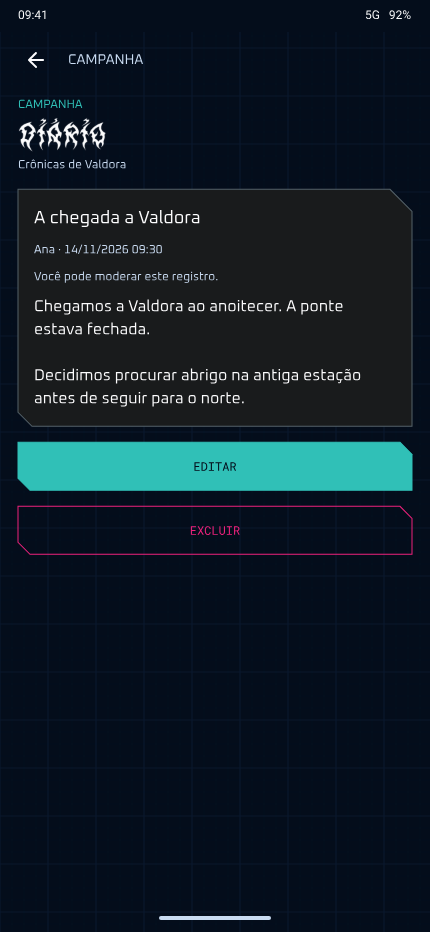
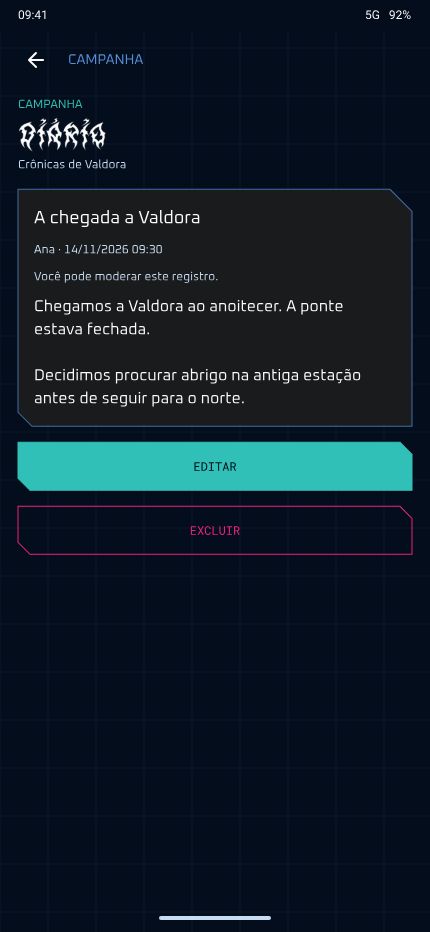
docs: accept journal UI and refine Standard color accents

diff --git a/docs/changes/2026-11-14-shared-campaign-journal/design_review.md b/docs/changes/2026-11-14-shared-campaign-journal/design_review.md
@@ -1,12 +1,12 @@
 # Shared journal visual redesign - InDevReview
 
 - Date: 2026-11-14 01:36 America/La_Paz; BACKLOG-001 design stage only.
-- [Review board](review-board-v2.png), [UI contract](UI_contract.md), [Pen candidate](journal-v2-candidate.pen), [reference manifest](visual_references.json), [implementation/test plan](implementation_plan.md).
-- Applied skills: ux-design, corrected pen-design-editor and implementation-plan. Specification approval remains valid; visual approval is pending.
+- [Review board](review-board-v2.png), [UI contract](UI_contract.md), [Pen candidate](journal.pen), [reference manifest](visual_references.json), [implementation/test plan](implementation_plan.md).
+- Applied skills: ux-design, corrected pen-design-editor and implementation-plan. Specification approval remains valid; owner approved the UI with a small Standard color refinement.
 - Replaced rejected generic styling with source-mapped Oxanium/MB Forever Raw, diagonal control/panel cuts and semantic cyan actions in Standard; Press Start 2P/Acidic/Drunk Fonts, signal rails/chrome, scanlines and contained interference in Cybergrunge.
 - Pen lacks a declared custom-font registration API: fixed/decorative title artwork was rendered directly from bundled font files at3x; missing decorative glyphs use the bundled Oxanium fallback. Functional text uses native Oxanium/Press Start2P. No font files modified or new application dependency added.
 - First rendered J03 in both modes and inspected against guide/component mapping before expanding the remaining states. Inspected five contact sheets covering all52 exports, plus full-size editors, IME and modal states.
 - Pen CLI:52 top-level frames; final bounds inspection0 problems. All52 PNGs are430x932. Fresh headless reopen retained52 frames and0 layout problems; reopened Standard/Cyber list PNGs match original SHA-256 hashes exactly.
 - Documentation checks PASS:52 unique state/node references, PNG dimensions, local Markdown links/line limits; validate-harness.ps1 PASS (116 documents); git diff --check PASS. Scratch removed before commit; staged diff checked.
 - Runtime limit: adb devices returned no connected device. No Android build, runtime screenshot, live sync/security test or pixel regression executed for this design-only change; static rendering is not application acceptance.
-- Candidate remains unapproved and is not promoted as canonical. Journal implementation remains ToDo; next action is owner visual review, then implementation of the linked plan.
+- Owner approved UI on 2026-11-14; added semantic blue information borders and cyan indicators in Standard, preserving layout and Cybergrunge. Promoted journal.pen as canonical; implementation is next.

diff --git a/.docs/OngoingTasks/shared_campaign_journal_task_state.md b/.docs/OngoingTasks/shared_campaign_journal_task_state.md
@@ -1,4 +1,4 @@
-# Shared campaign journal - InDevReview (design stage)
+# Shared campaign journal - InProgress - 3
 
 - Date time: 2026-11-14 01:36 America/La_Paz
 - Task objective: Deliver BACKLOG-001 / CAMPAIGN-PLAN-001.
@@ -10,7 +10,7 @@
         - Owner confirmed shared text entries; members create, authors edit/delete their own, GM moderates all.
         - Source observations: GM is campaign owner; HISTORIAN member enum does not confer GM authority.
         - Definition of done: explicit specification approval.
-    - 2 Define UI contract and implementation slices - InDevReview
+    - 2 Define UI contract and implementation slices - Done
         - Cover list/editor, permissions, offline, conflicts and recovery using existing smartphone components.
         - Dependencies: approved specification and visual direction where required.
         - Owner rejected the generated designs for styleguide noncompliance on 2026-11-14; they are not approved references.
@@ -21,4 +21,6 @@
 - Checks selected for documentation: harness links/anchors/line limits and staged diff; Android checks selected after approved implementation scope.
 - Owner correction: add the styleguide to the Pen creation skill; bounded files: pen-design-editor/SKILL.md and affected workflow records. Inspect guide/component gaps, patch the skill, validate skill/harness integrity, commit for review.
 - Skill correction - InDevReview: [Evidence](../../docs/changes/2026-11-14-shared-campaign-journal/styleguide_skill_correction.md). Corrected journal design is now InDevReview; rejected candidates discarded.
-- Current handoff: [design review/evidence](../../docs/changes/2026-11-14-shared-campaign-journal/design_review.md), UI contract,52 exported references and implementation/test plan ready. Awaiting visual approval; no app code changed. BACKLOG-001 remains unimplemented.
+- Current handoff: [design review/evidence](../../docs/changes/2026-11-14-shared-campaign-journal/design_review.md), UI contract,52 exported references and implementation/test plan ready. Owner approved UI and requested slightly more color in Standard; applied semantic blue borders/cyan indicators and promoted journal.pen. No app code changed. BACKLOG-001 implementation remains pending.
+
+- Color refinement - InDevReview: Standard information panels use secondary blue; indicators cyan. Existing layout and Cybergrunge preserved. Next action: implement the approved journal plan; no further visual approval loop for this bounded adjustment.

diff --git a/docs/product/product.md b/docs/product/product.md
@@ -30,9 +30,9 @@ Solicitações registradas em 2026-11-12. Itens ainda não implementados, sem pr
 | BACKLOG-005 | Grid de batalha compartilhado em tempo real no Modo Sessão | [Campanhas — CAMPAIGN-PLAN-004](requirements/campaigns.md#planned-changes) |
 | BACKLOG-006 | Edição simultânea em tempo real e uso online obrigatório, com offline somente leitura | [Sincronização — SYNC-PLAN-001](requirements/synchronization.md#planned-changes) |
 
-BACKLOG-001 selected by owner on 2026-11-14; specification approved; redesigned UI InDevReview (implementation pending). [Task state](../../.docs/OngoingTasks/shared_campaign_journal_task_state.md), [approved specification](../changes/2026-11-14-shared-campaign-journal/spec.md). Other backlog items retain their unordered status.
+BACKLOG-001 selected by owner on 2026-11-14; specification approved; UI approved with minor Standard color refinement (implementation pending). [Task state](../../.docs/OngoingTasks/shared_campaign_journal_task_state.md), [approved specification](../changes/2026-11-14-shared-campaign-journal/spec.md). Other backlog items retain their unordered status.
 
-Owner correction 2026-11-14: journal Pen designs rejected for styleguide noncompliance; explicitly requested enforcing the styleguide in the Pen skill. [Skill correction](../changes/2026-11-14-shared-campaign-journal/styleguide_skill_correction.md): InDevReview; [redesigned journal](../changes/2026-11-14-shared-campaign-journal/design_review.md) InDevReview; visual approval pending. No product priorities changed.
+Owner correction 2026-11-14: journal Pen designs rejected for styleguide noncompliance; explicitly requested enforcing the styleguide in the Pen skill. [Skill correction](../changes/2026-11-14-shared-campaign-journal/styleguide_skill_correction.md): InDevReview; [redesigned journal](../changes/2026-11-14-shared-campaign-journal/design_review.md) approved by owner with minor Standard color refinement; implementation pending. No product priorities changed.
 
 ## Workflow do backlog
 Owner request 2026-11-13: publish the approved main-branch fixes as v0.51.1 using signed release CI. [Release task](../../.docs/CompletedTasks/release_0_51_1_task_state.md): Done; owner accepted 2026-11-14; published with verified signed APK, CI run 43540829981 successful; existing product priorities unchanged.

diff --git a/docs/changes/2026-11-14-shared-campaign-journal/UI_contract.md b/docs/changes/2026-11-14-shared-campaign-journal/UI_contract.md
@@ -1,6 +1,6 @@
 # UI contract - Shared campaign journal
-- Status: redesigned references rendered; owner approval pending. [Approved spec](spec.md).
-- Source: journal-v2-candidate.pen; viewport 430x932, pt-BR, font scale 1.0, comfortable density.
+- Status: Approved by owner on 2026-11-14 with a small Standard color refinement. [Approved spec](spec.md).
+- Source: journal.pen; viewport 430x932, pt-BR, font scale 1.0, comfortable density.
 - Modes: Standard/Ciano industrial and Cybergrunge. Every state below has both variants.
 - [Styleguide](../../../DESIGN_GUIDE.md); [Cybergrunge direction](../../interface-cybergrunge.md).
 - Runtime reference unavailable: adb devices returned no connected devices. Source inspection is not runtime acceptance.
@@ -21,7 +21,7 @@ Custom decorative fonts must use the bundled files; fixed title artwork can be r
 Guide/source discrepancies: guide's historical grid colors differ from current HudBackground; use active semantic surfaceVariant. TechPanel Cyber cuts are an explicit component override of SdoShapeTokens.panel; preserve that override.
 Root CODE_STANDARDS forbids ellipsis, overriding historical guide text allowing it. Whole words, complete content and minimum48dp touch targets apply throughout.
 Cybergrunge references depict one static interference phase; geometry/chrome/noise remain visible, motion alone is deferred to runtime.
-No design-system exception or new dependencies. Existing palettes and component semantics remain.
+Owner color refinement: Standard information panel borders use secondary blue #5690DA at72%, toolbar context uses secondary blue and list count uses primary cyan. Layout and Cybergrunge preserved. No design-system exception or new dependencies.
 
 ## Screen states
 Every row has a stable state ID; fixture name is its lowercase ID plus -fixture, scoped to campaign/account/role.

diff --git a/.docs/HistoryRecords/history_records.md b/.docs/HistoryRecords/history_records.md
@@ -89,3 +89,7 @@ Created branch feature/lean-workflows-and-tools from main (6d85b83, preserving a
 - Continued BACKLOG-001 using the corrected Pen skill: source-mapped typography, geometry, semantic controls and graphic layers; rendered26 states in both modes with UI contract and implementation/test plan.
 - Checks PASS:52 unique references/430x932 PNGs; full export inspection; fresh Pen reopen52 frames/0 layout problems; representative PNG hashes identical; artifact links/limits; validate-harness.ps1 (116 documents); scoped diff and scratch cleanup.
 - Design stage enters InDevReview pending owner visual approval. No app code/build/runtime or live service acceptance; adb has no connected device.
+
+## 2026-11-14 01:41 America/La_Paz - Accept journal UI and refine Standard color
+- Owner approved UI and requested slightly more color in Standard. Added semantic secondary-blue information borders/context and cyan count; preserved layout and Cybergrunge; promoted journal.pen and refreshed26 Standard exports/review board.
+- Verification: inspected revised full-size Standard list; reused unchanged design evidence; validate-harness.ps1 PASS (116 documents); scoped diff PASS. No application/runtime checks for this design-only refinement. Implementation remains pending; color adjustment handed off InDevReview.

diff --git a/docs/product/requirements/campaigns.md b/docs/product/requirements/campaigns.md
@@ -28,7 +28,7 @@ Backlog solicitado pelo proprietário em 2026-11-12. São propostas não impleme
 
 Adicionar um diário compartilhado da campanha. Definir no refinamento autoria, permissões de leitura/escrita, organização dos registros e comportamento de edição/sincronização. Distinguir o diário das notas pessoais da ficha e do histórico técnico de operações já existentes.
 
-Refinement started 2026-11-14. Owner confirmed shared text entries, member creation, author edit/delete and GM moderation. [Approved specification](../../changes/2026-11-14-shared-campaign-journal/spec.md); owner rejected the first visual candidates for styleguide noncompliance; [redesigned UI](../../changes/2026-11-14-shared-campaign-journal/design_review.md) InDevReview; visual approval and implementation pending.
+Refinement started 2026-11-14. Owner confirmed shared text entries, member creation, author edit/delete and GM moderation. [Approved specification](../../changes/2026-11-14-shared-campaign-journal/spec.md); owner rejected the first visual candidates for styleguide noncompliance; [redesigned UI](../../changes/2026-11-14-shared-campaign-journal/design_review.md) approved by owner with minor Standard color refinement; implementation pending.
 
 ### CAMPAIGN-PLAN-002 — Evolução do Modo Sessão
 

diff --git a/docs/changes/2026-11-14-shared-campaign-journal/implementation_plan.md b/docs/changes/2026-11-14-shared-campaign-journal/implementation_plan.md
@@ -1,7 +1,7 @@
 # Shared journal implementation and verification plan
 
 - Scope: [Approved specification](spec.md); [UI contract](UI_contract.md); BACKLOG-001 only.
-- Status: planning ready; visual references await owner approval. Existing start authorization covers implementation after the visual decision.
+- Status: planning ready; owner approved visual references with a small Standard color refinement. Existing start authorization covers implementation after the visual decision.
 - Reuse Android/Firebase/coroutines/manual wiring. No new library, architecture migration, app-wide connectivity rewrite, or backend deployment authorized here.
 
 ## Delivery steps
